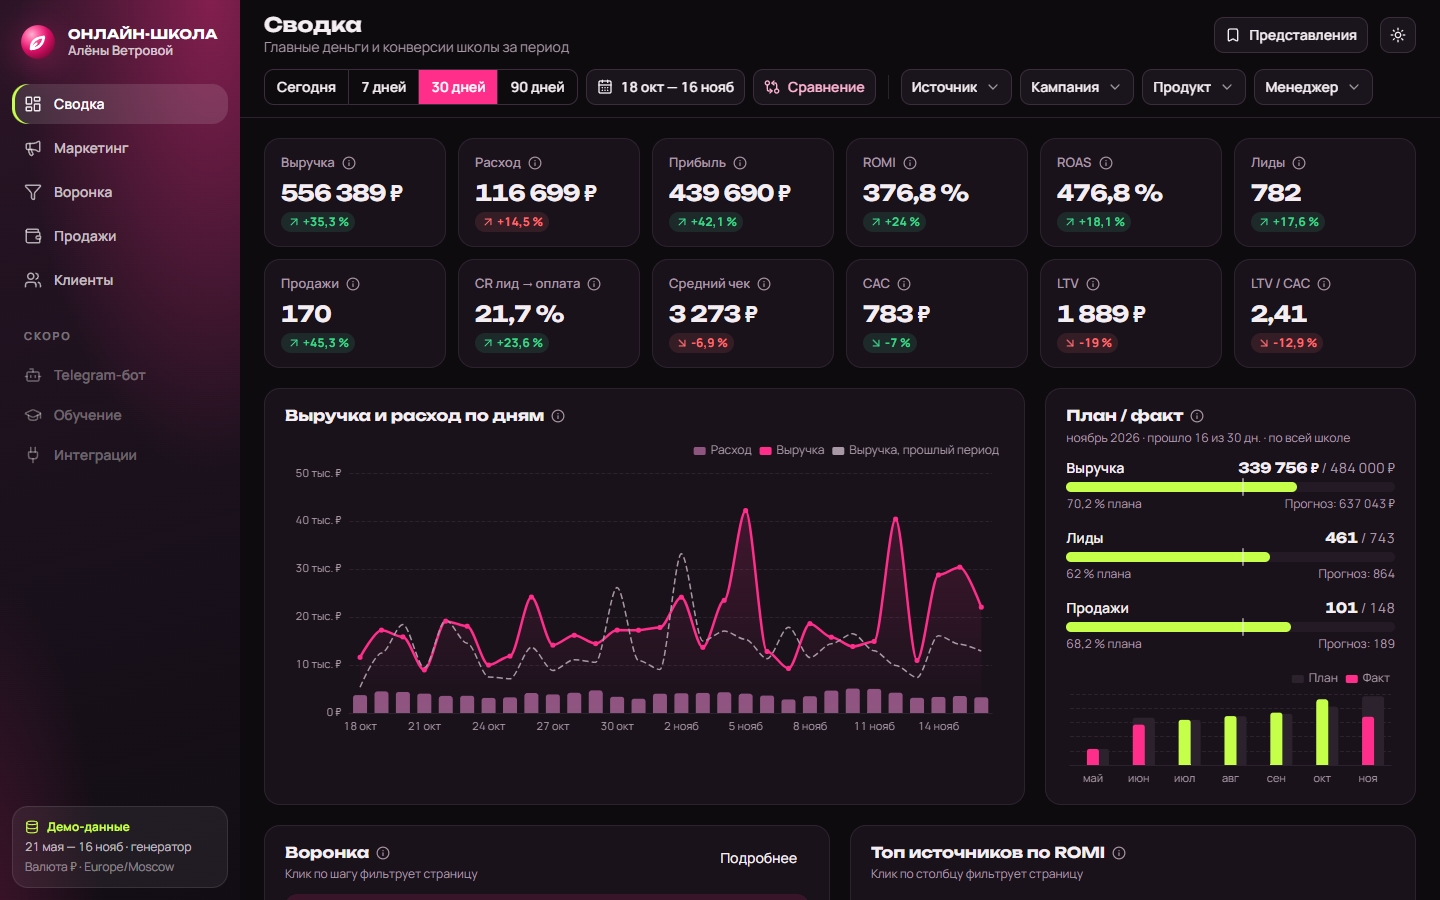
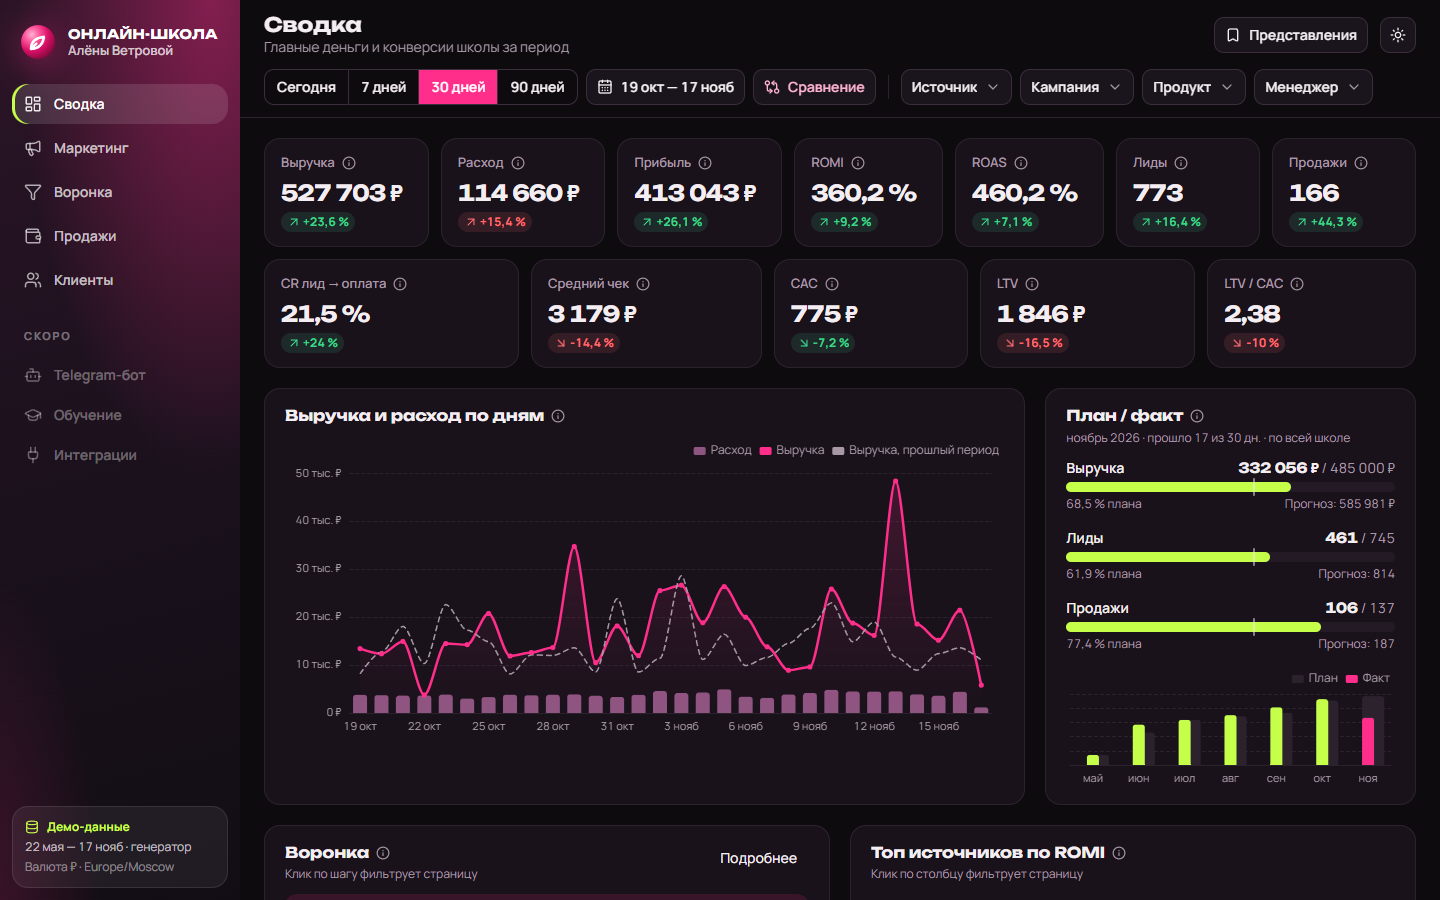
Блоки с числами по ширине содержимого; «Продажи» без ARPU/ARPPU/доли рассрочек; «Продвинулись после дожимов»
- Ряды KPI и итогов: ширина блока подстраивается под длину числа и подписи, свободное место делится между блоками
- «Продажи»: карточки выручка gross, выручка, заказы, оплаты, средний чек, возвраты (последними)
- «Воронка»: «Вернули дожимы» → «Продвинулись после дожимов», столбец «Перешли дальше»
- README и скриншоты обновлены

diff --git a/src/pages/funnel/StallsChart.tsx b/src/pages/funnel/StallsChart.tsx
@@ -1,4 +1,4 @@
-/** Где остановились: застряли на шаге сейчас и сколько вернули дожимы */
+/** Где остановились: застряли на шаге сейчас и сколько продвинулись дальше после дожимов */
 import { useMemo } from "react";
 import type { EChartsOption } from "echarts";
 import { ChartCard } from "@/components/widgets/ChartCard";
@@ -22,14 +22,14 @@ export function StallsChart({ className }: { className?: string }) {
         axisPointer: { type: "shadow" },
         formatter: (params: unknown) => {
           const r = rows[(params as { dataIndex: number }[])[0]?.dataIndex ?? 0]!;
-          return `<b>После «${FUNNEL_LABELS[r.step]}»</b><br/>Дошли: ${num(r.reached)}<br/>Застряли: <b>${num(r.stuck)}</b> (${pct(r.reached ? r.stuck / r.reached : null)})<br/>Получили дожимы: ${num(r.nurtured)}<br/>Вернули дожимы: <b>${num(r.returned)}</b>`;
+          return `<b>После «${FUNNEL_LABELS[r.step]}»</b><br/>Дошли: ${num(r.reached)}<br/>Застряли: <b>${num(r.stuck)}</b> (${pct(r.reached ? r.stuck / r.reached : null)})<br/>Получили дожимы: ${num(r.nurtured)}<br/>Продвинулись после дожима: <b>${num(r.returned)}</b>`;
         },
       },
       xAxis: { type: "value", ...axisStyle(p) },
       yAxis: { type: "category", data: rows.map((r) => `после «${FUNNEL_LABELS[r.step]}»`), ...axisStyle(p), splitLine: { show: false }, axisLabel: { color: p.fg, fontSize: 12 } },
       series: [
         { name: "Застряли сейчас", type: "bar", data: rows.map((r) => r.stuck), itemStyle: { color: p.series[0], borderRadius: [0, 4, 4, 0] }, barMaxWidth: 14 },
-        { name: "Вернули дожимы", type: "bar", data: rows.map((r) => r.returned), itemStyle: { color: p.series[1], borderRadius: [0, 4, 4, 0] }, barMaxWidth: 14 },
+        { name: "Продвинулись после дожима", type: "bar", data: rows.map((r) => r.returned), itemStyle: { color: p.series[1], borderRadius: [0, 4, 4, 0] }, barMaxWidth: 14 },
       ],
     };
   }, [q.data, p]);
@@ -38,12 +38,12 @@ export function StallsChart({ className }: { className?: string }) {
     <ChartCard
       className={className}
       title="Где остановились"
-      hint="Застряли — дошли до шага, но не до следующего. Вернули дожимы — клиенты, которые после дожимного поста этого шага перешли дальше (≤ 72 ч)."
+      hint="Застряли — дошли до шага, но не до следующего. Продвинулись после дожима — клиенты, которые после дожимного поста этого шага перешли на следующий шаг (≤ 72 ч)."
       loading={q.isLoading}
       error={q.error}
       height={280}
     >
-      {option && <EChart option={option} height={280} ariaLabel="Где остановились клиенты и сколько вернули дожимы" />}
+      {option && <EChart option={option} height={280} ariaLabel="Где остановились клиенты и сколько продвинулись после дожимов" />}
     </ChartCard>
   );
 }

diff --git a/src/pages/funnel/NurtureTable.tsx b/src/pages/funnel/NurtureTable.tsx
@@ -1,4 +1,4 @@
-/** Дожимные посты по шагам воронки: отправлено, клики, вернулись, заблокировали */
+/** Дожимные посты по шагам воронки: отправлено, клики, перешли дальше, заблокировали */
 import { useMemo } from "react";
 import type { ColumnDef } from "@tanstack/react-table";
 import { ChevronRight, ThumbsDown, ThumbsUp } from "lucide-react";
@@ -83,7 +83,7 @@ export function NurtureTable() {
       numCol("sent", "Отправлено", (r) => val(r, "sent"), num),
       numCol("clicked", "Клики", (r) => val(r, "clicked"), num),
       numCol("ctr", "CTR поста", (r) => val(r, "ctr"), pct),
-      numCol("converted", "Вернулись", (r) => val(r, "converted"), num),
+      numCol("converted", "Перешли дальше", (r) => val(r, "converted"), num),
       numCol("cr", "CR поста", (r) => val(r, "cr"), pct),
       numCol("blocked", "Заблокировали", (r) => val(r, "blocked"), num),
     ],
@@ -99,7 +99,7 @@ export function NurtureTable() {
       { header: "Отправлено", value: (r) => val(r, "sent"), numFmt: "#,##0" },
       { header: "Клики", value: (r) => val(r, "clicked"), numFmt: "#,##0" },
       { header: "CTR поста", value: (r) => val(r, "ctr"), numFmt: "0.0%" },
-      { header: "Вернулись", value: (r) => val(r, "converted"), numFmt: "#,##0" },
+      { header: "Перешли дальше", value: (r) => val(r, "converted"), numFmt: "#,##0" },
       { header: "CR поста", value: (r) => val(r, "cr"), numFmt: "0.0%" },
       { header: "Заблокировали", value: (r) => val(r, "blocked"), numFmt: "#,##0" },
     ],
@@ -109,7 +109,7 @@ export function NurtureTable() {
   return (
     <ChartCard
       title="Дожимные посты бота"
-      hint="Посты, которые бот отправляет тем, кто остановился на шаге. CTR поста = клики по кнопке / отправлено. CR поста = вернулись и перешли на следующий шаг ≤ 72 ч после поста / отправлено. Telegram не сообщает ботам о прочтении, поэтому вместо «прочитано» считаем клики и возвраты."
+      hint="Посты, которые бот отправляет тем, кто остановился на шаге. CTR поста = клики по кнопке / отправлено. CR поста = перешли на следующий шаг ≤ 72 ч после поста / отправлено. Telegram не сообщает ботам о прочтении, поэтому вместо «прочитано» считаем клики и переходы на следующий шаг."
       subtitle="Раскройте шаг, чтобы увидеть посты серии"
       loading={q.isLoading}
       error={q.error}

diff --git a/src/pages/funnel/FunnelPage.tsx b/src/pages/funnel/FunnelPage.tsx
@@ -17,7 +17,7 @@ function Stat({ label, value, sub, hint, loading }: { label: string; value: stri
         {label}
         <MetricTooltip title={label} formula={hint} />
       </div>
-      {loading ? <Skeleton className="h-7 w-24" /> : <div className="font-display text-[22px] font-bold leading-tight">{value}</div>}
+      {loading ? <Skeleton className="h-7 w-24" /> : <div className="font-display text-[22px] font-bold leading-tight whitespace-nowrap">{value}</div>}
       {sub && !loading && <div className="text-xs text-muted-foreground">{sub}</div>}
     </Card>
   );
@@ -35,17 +35,17 @@ export default function FunnelPage() {
 
   return (
     <div className="flex flex-col gap-5">
-      <section aria-label="Итоги воронки" className="grid grid-cols-2 gap-3 md:grid-cols-3 xl:grid-cols-5">
+      <section aria-label="Итоги воронки" className="kpi-row">
         <Stat loading={loading} label="Пришли" value={num(clicks)} sub="кликов за период" hint="Уникальные визитёры с меткой за период: реклама, посевы, органика, рефералы." />
         <Stat loading={loading} label="Стали лидами" value={num(count("lead"))} sub={`${pct(clicks ? count("lead") / clicks : null)} от клика`} hint="Прошли приветствие в Web App и получили доступ к урокам." />
         <Stat loading={loading} label="Прошли мини-курс" value={num(count("lesson_3"))} sub={`${pct(count("lead") ? count("lesson_3") / count("lead") : null)} от лидов`} hint="Отметили пройденным третий бесплатный урок." />
         <Stat loading={loading} label="Оплатили" value={num(count("payment"))} sub={`${pct(clicks ? count("payment") / clicks : null)} от клика`} hint="Сделали первую оплату (включая первый платёж рассрочки)." />
         <Stat
           loading={loading}
-          label="Вернули дожимы"
+          label="Продвинулись после дожимов"
           value={num(returned)}
-          sub={`${num(sent)} постов · ${num(blocked)} блокировок`}
-          hint="Клиенты, которые после дожимного поста перешли на следующий шаг в течение 72 часов (по всем шагам)."
+          sub={`клиенток · ${num(sent)} постов · ${num(blocked)} блокировок`}
+          hint="Сколько клиенток после дожимного поста бота перешли на следующий шаг воронки в течение 72 часов (по всем шагам)."
         />
       </section>
       <FunnelSteps />

diff --git a/src/pages/clients/ClientCardPage.tsx b/src/pages/clients/ClientCardPage.tsx
@@ -26,7 +26,7 @@ function Stat({ label, value, sub }: { label: string; value: string; sub?: strin
   return (
     <Card className="gap-1 px-4 py-3.5">
       <div className="text-[13px] font-semibold text-muted-foreground">{label}</div>
-      <div className="font-display text-xl font-bold leading-tight">{value}</div>
+      <div className="font-display text-xl font-bold leading-tight whitespace-nowrap">{value}</div>
       {sub && <div className="text-xs text-muted-foreground">{sub}</div>}
     </Card>
   );
@@ -58,7 +58,7 @@ export default function ClientCardPage() {
     return (
       <div className="flex flex-col gap-4">
         <Skeleton className="h-24" />
-        <div className="grid grid-cols-2 gap-3 md:grid-cols-4">
+        <div className="kpi-row">
           {Array.from({ length: 4 }, (_, i) => (
             <Skeleton key={i} className="h-20" />
           ))}
@@ -120,11 +120,11 @@ export default function ClientCardPage() {
         </div>
       </Card>
 
-      <section className="grid grid-cols-2 gap-3 md:grid-cols-4">
+      <section className="kpi-row">
         <Stat label="LTV" value={rub(r.ltv)} sub="выручка за всё время (net)" />
         <Stat label="Покупок" value={num(r.orders)} sub={c.firstPaidAt ? `первая — ${dateTime(c.firstPaidAt)}` : "ещё не покупала"} />
         <Stat label="Этап воронки" value={FUNNEL_LABELS[r.step]} sub={`пройдено ${reached} из ${c.steps.length} шагов`} />
-        <Stat label="Дожимы" value={`${num(c.nurture.converted)} из ${num(c.nurture.sent)}`} sub={`вернули в воронку · кликов ${num(c.nurture.clicked)}`} />
+        <Stat label="Дожимы" value={`${num(c.nurture.converted)} из ${num(c.nurture.sent)}`} sub={`продвинулась дальше после дожимов · кликов ${num(c.nurture.clicked)}`} />
       </section>
 
       <Card className="gap-3 py-4">

diff --git a/src/pages/clients/ClientsPage.tsx b/src/pages/clients/ClientsPage.tsx
@@ -32,7 +32,7 @@ function Stat({ label, value, hint, loading }: { label: string; value: string; h
         {label}
         <MetricTooltip title={label} formula={hint} />
       </div>
-      {loading ? <Skeleton className="h-7 w-24" /> : <div className="font-display text-[22px] font-bold leading-tight">{value}</div>}
+      {loading ? <Skeleton className="h-7 w-24" /> : <div className="font-display text-[22px] font-bold leading-tight whitespace-nowrap">{value}</div>}
     </Card>
   );
 }
@@ -97,7 +97,7 @@ export default function ClientsPage() {
 
   return (
     <div className="flex flex-col gap-5">
-      <section aria-label="Итоги по клиентам" className="grid grid-cols-2 gap-3 md:grid-cols-4">
+      <section aria-label="Итоги по клиентам" className="kpi-row">
         <Stat loading={q.isLoading} label="Клиентов" value={num(d?.summary.clients ?? 0)} hint="Пользователи бота под текущие фильтры: сегмент, период, источник, продукт, менеджер, поиск, статус и тег." />
         <Stat loading={q.isLoading} label="Платящих" value={num(d?.summary.paying ?? 0)} hint="Клиенты хотя бы с одной оплаченной покупкой." />
         <Stat loading={q.isLoading} label="LTV платящих, всего" value={rub(d?.summary.ltv ?? 0, (d?.summary.ltv ?? 0) >= 1_000_000)} hint="Сумма выручки платящих клиентов выборки за всё время (net)." />

diff --git a/src/data/mock/clients.ts b/src/data/mock/clients.ts
@@ -198,7 +198,7 @@ export function clientCard(idx: Index, f: Filters, userId: ID): ClientCard | nul
     ...idx.ds.events.filter((e) => e.userId === userId).map((e) => eventItem(idx, e)).filter((x): x is TimelineItem => x !== null),
     ...deliveries.map((d): TimelineItem => {
       const m = msgs.get(d.messageId)!;
-      const reaction = d.status === "blocked" ? "после поста заблокировала бота" : d.status === "failed" ? "не доставлен" : d.convertedAt ? `вернулась через ${duration((Date.parse(d.convertedAt) - Date.parse(d.sentAt)) / 60_000)}` : d.clickedAt ? "нажала кнопку, но не продолжила" : "без реакции";
+      const reaction = d.status === "blocked" ? "после поста заблокировала бота" : d.status === "failed" ? "не доставлен" : d.convertedAt ? `перешла на следующий шаг через ${duration((Date.parse(d.convertedAt) - Date.parse(d.sentAt)) / 60_000)}` : d.clickedAt ? "нажала кнопку, но не продолжила" : "без реакции";
       return { at: d.sentAt, kind: "nurture", title: `Дожим: «${m.title}»`, detail: reaction, tone: d.convertedAt ? "positive" : d.status === "blocked" ? "negative" : "neutral" };
     }),
     ...orders.map((o): TimelineItem => ({

diff --git a/src/lib/kpi.ts b/src/lib/kpi.ts
@@ -82,10 +82,13 @@ export interface SalesInputs {
   users: number;
 }
 
-export const SALES_KPIS = ["gross", "revenue", "refunds", "orders", "payments", "avgCheck", "arpu", "arppu", "installmentShare"] as const;
+/** Карточки на странице «Продажи» — в этом порядке (возвраты последними) */
+export const SALES_KPIS = ["gross", "revenue", "orders", "payments", "avgCheck", "refunds"] as const;
 export type SalesKpi = (typeof SALES_KPIS)[number];
+/** Все метрики продаж, включая не выведенные на карточки (ARPU, ARPPU, доля рассрочек) */
+export type SalesMetric = SalesKpi | "arpu" | "arppu" | "installmentShare";
 
-export function salesKpis(x: SalesInputs): Record<SalesKpi, number | null> {
+export function salesKpis(x: SalesInputs): Record<SalesMetric, number | null> {
   return {
     gross: x.gross,
     revenue: x.net,

diff --git a/src/components/widgets/KpiCard.tsx b/src/components/widgets/KpiCard.tsx
@@ -31,7 +31,7 @@ export function KpiCard({ metric, data, loading }: { metric: MetricKey; data?: K
         <span className="truncate">{def.label}</span>
         <MetricTooltip title={def.label} formula={def.formula} />
       </div>
-      <div className={cn("font-display text-[22px] font-bold leading-tight tracking-tight", negativeValue && "text-negative")}>{metricValue(data.value, def.format)}</div>
+      <div className={cn("font-display text-[22px] font-bold leading-tight tracking-tight whitespace-nowrap", negativeValue && "text-negative")}>{metricValue(data.value, def.format)}</div>
       <div className="flex items-center">
         {data.prev !== null || ch !== null ? (
           <Tooltip>

diff --git a/src/pages/marketing/MarketingPage.tsx b/src/pages/marketing/MarketingPage.tsx
@@ -14,7 +14,7 @@ export default function MarketingPage() {
         <AttributionSwitch />
         <p className="text-xs text-muted-foreground">Модель атрибуции меняет лиды, продажи и выручку по источникам. Расход и клики от неё не зависят.</p>
       </div>
-      <section aria-label="Показатели рекламы" className="grid grid-cols-2 gap-3 md:grid-cols-4 xl:grid-cols-7">
+      <section aria-label="Показатели рекламы" className="kpi-row">
         {MARKETING_KPIS.map((k) => (
           <KpiCard key={k} metric={k} data={kpis.data?.items[k]} loading={kpis.isLoading} />
         ))}

diff --git a/src/pages/sales/SalesPage.tsx b/src/pages/sales/SalesPage.tsx
@@ -11,7 +11,7 @@ export default function SalesPage() {
   const kpis = useSalesKpis();
   return (
     <div className="flex flex-col gap-5">
-      <section aria-label="Показатели продаж" className="grid grid-cols-2 gap-3 md:grid-cols-3 xl:grid-cols-5 2xl:grid-cols-9">
+      <section aria-label="Показатели продаж" className="kpi-row">
         {SALES_KPIS.map((k) => (
           <KpiCard key={k} metric={k} data={kpis.data?.items[k]} loading={kpis.isLoading} />
         ))}

diff --git a/src/pages/summary/SummaryPage.tsx b/src/pages/summary/SummaryPage.tsx
@@ -11,7 +11,7 @@ export default function SummaryPage() {
   const kpis = useKpis();
   return (
     <div className="flex flex-col gap-5">
-      <section aria-label="Ключевые показатели" className="grid grid-cols-2 gap-3 md:grid-cols-3 xl:grid-cols-6">
+      <section aria-label="Ключевые показатели" className="kpi-row">
         {SUMMARY_KPIS.map((k) => (
           <KpiCard key={k} metric={k} data={kpis.data?.items[k]} loading={kpis.isLoading} />
         ))}

diff --git a/src/styles/globals.css b/src/styles/globals.css
@@ -115,3 +115,14 @@
 
 @utility bg-hero { background: var(--hero-grad); }
 @utility font-display { font-family: var(--font-display); }
+
+/* Ряд блоков с числами: ширина блока — по длине его числа и подписи, свободное место делится между блоками */
+@utility kpi-row {
+  display: flex;
+  flex-wrap: wrap;
+  gap: 0.75rem;
+  & > * {
+    flex: 1 1 auto;
+    min-width: 9rem;
+  }
+}
